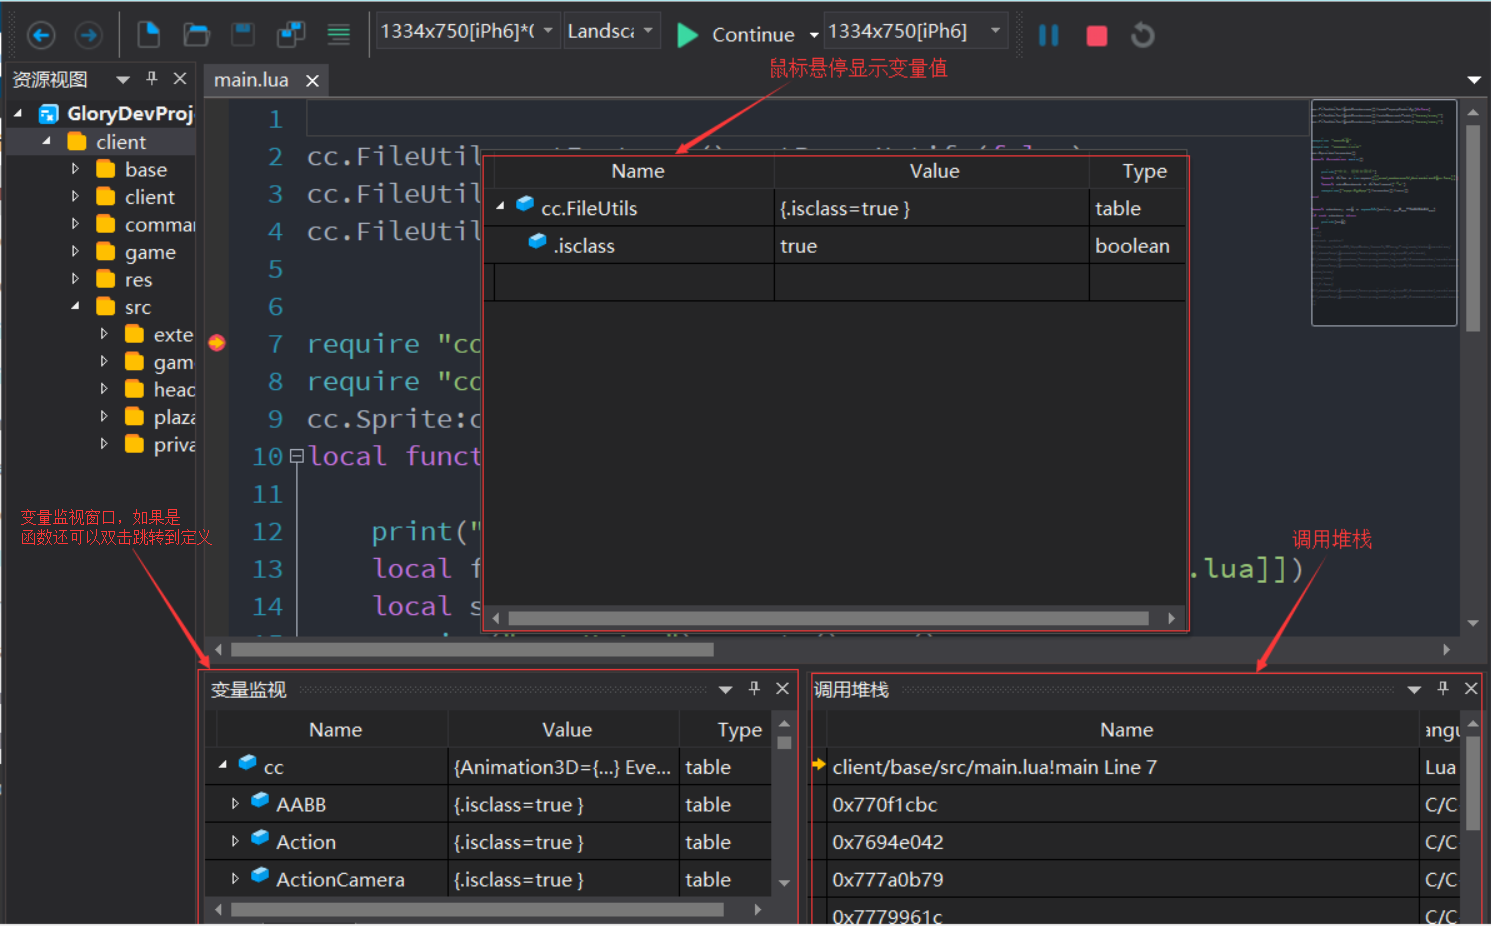
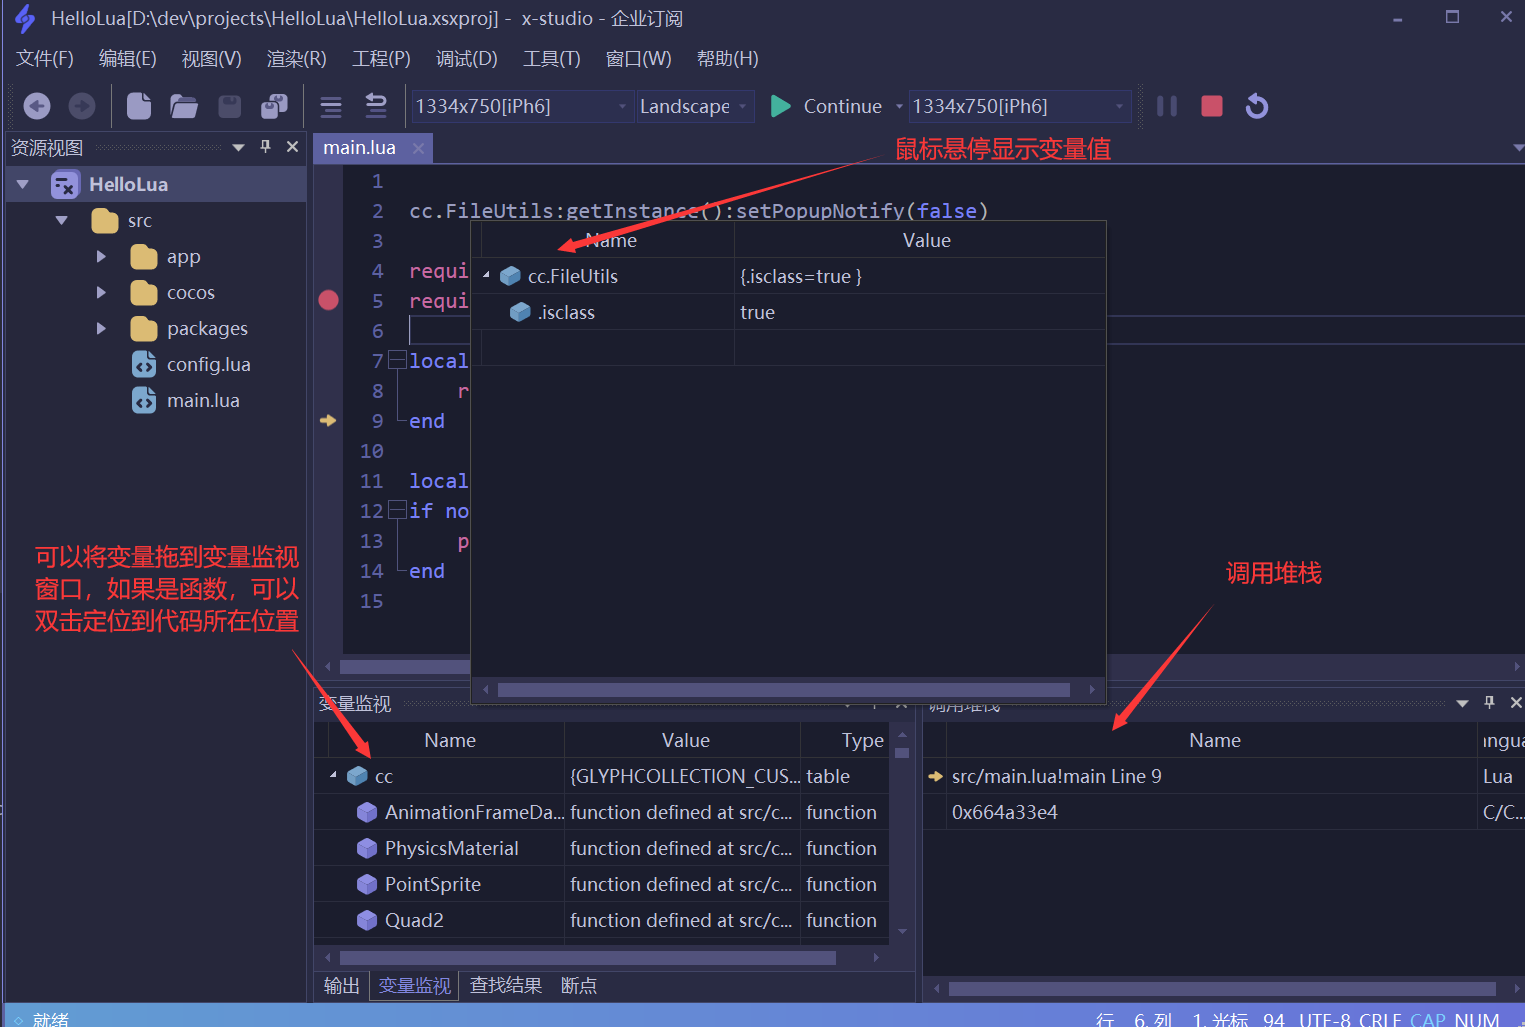
Update docs screenshots

Changed region(s): [[0.0, 0.0, 1.0, 1.0], [0.8947, 0.0, 1.0, 0.0302]]

diff --git a/docs/zh/lua-dbg/03_cclua.md b/docs/zh/lua-dbg/03_cclua.md
@@ -5,7 +5,7 @@
 ### 新建工程
 
    通过软件主菜单【文件】【新建工程】，在弹出的新建工程对话框中，工程类型设置为Lua Debug, 然后点【自定义引擎脚本…】按钮，选择游戏exe，
-   工程路径请选择cocos项目的根目录，工程名随便起一个，例如GloryProjectDev，如下图所示：
+   工程路径请选择cocos项目的根目录，工程名随便起一个，例如 `HellLua`，如下图所示：
 
    ![image](../assets/images/c2s1_01.png)
 
@@ -38,6 +38,17 @@
    ![image](../assets/images/c2s1_04a.png)
 
    ![image](../assets/images/c2s1_04b.png)
+
+
+### 通过以上配置断点不能命中，可通过如下步骤添加代码文件搜索路径
+
+#### 1. 通过系统右键菜单 `Open with x-studio` 打开项目工程文件 `xxx.xsxproj`
+
+![image](../assets/images/c2s1_05a.png)  
+
+#### 2. xsxproj工程文件是xml格式，在 `Project/debug-options/search-paths` 节点下添加搜索路径即可，如果没有，手动创建，如图所示
+
+![image](../assets/images/c2s1_05b.png)
 
 
 !!! attention "注意事项"
